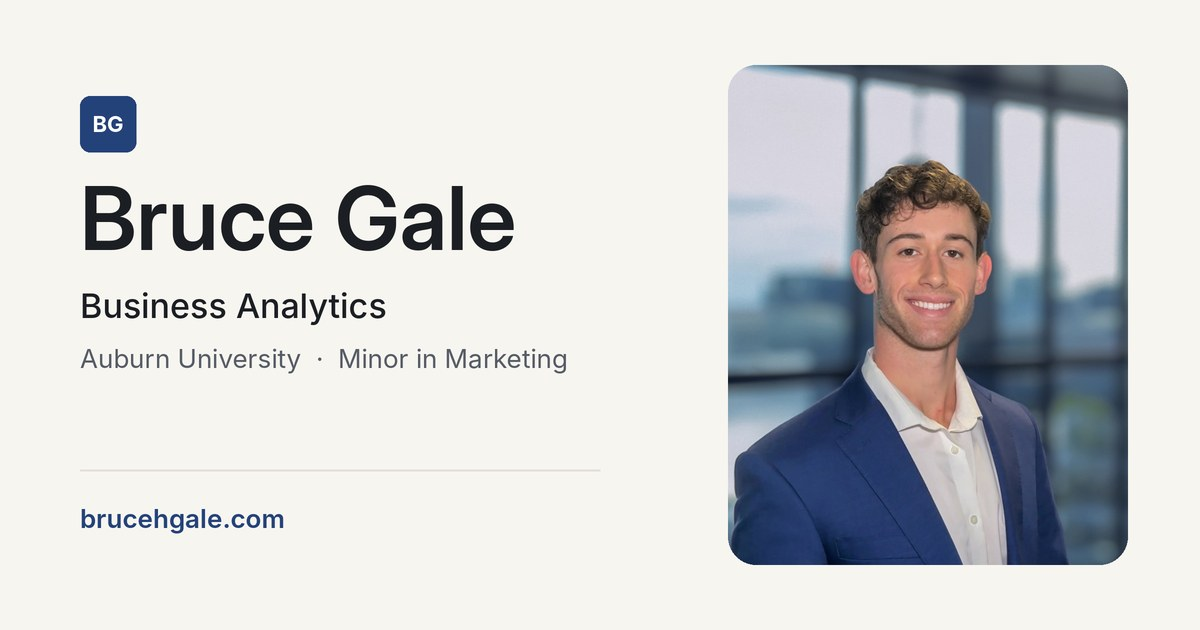
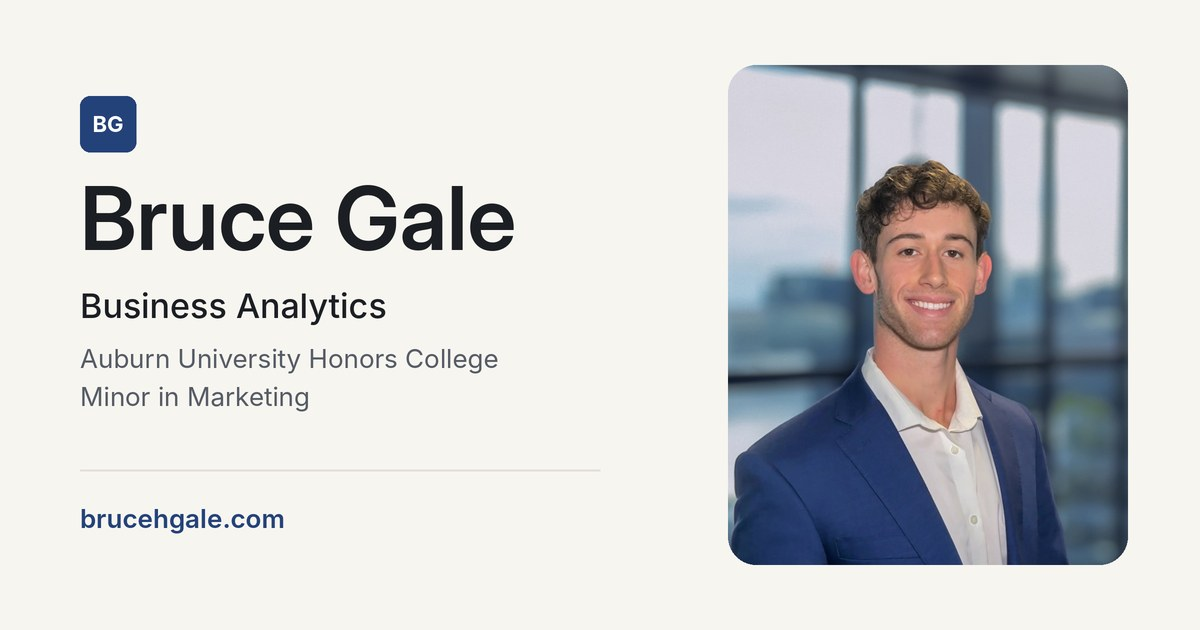
Add Honors College, AuburnSEO start date, and sample mockup caption
- Profile: Auburn University Honors College in the intro, education
  panels, About page, meta description, and regenerated share card
- AuburnSEO: started May 2026 (experience entry and case study)
- AuburnSEO case study: the phone mockup is labeled a sample design,
  not a client
- Catalog: S010 with Bruce's answers; open questions updated

Claude-Session: https://claude.ai/code/session_01TRBgudHw6x9vaQfCRF24eF

Changed region(s): [[0.2467, 0.5429, 0.4933, 0.6032], [0.0617, 0.6032, 0.2775, 0.6635]]

diff --git a/src/site.config.ts b/src/site.config.ts
@@ -22,6 +22,8 @@ export interface SiteConfig {
     program: string;
     school: string;
     minor: string;
+    /** e.g. "Honors College", once confirmed. */
+    honors?: string;
     /** Areas Bruce is targeting, as Bruce described them. */
     focusAreas: string[];
     /** e.g. "May 2027". Unconfirmed until Bruce provides it. */
@@ -45,13 +47,14 @@ export const site: SiteConfig = {
   name: 'Bruce Gale',
   url: 'https://brucehgale.com',
   description:
-    'Portfolio of Bruce Gale, a Business Analytics student at Auburn University with a minor in Marketing.',
+    'Portfolio of Bruce Gale, a Business Analytics student in the Auburn University Honors College with a minor in Marketing.',
   locale: 'en_US',
   placeholders: true,
   profile: {
     program: 'Business Analytics',
     school: 'Auburn University',
     minor: 'Marketing',
+    honors: 'Honors College',
     focusAreas: ['Business analytics', 'Data', 'Marketing', 'Business operations', 'Applied AI'],
     graduation: undefined,
     location: undefined,

diff --git a/scripts/make-social-card.py b/scripts/make-social-card.py
@@ -17,7 +17,8 @@ FONTS = os.environ.get("INTER_DIR", "/usr/share/fonts/opentype/inter")
 
 NAME = "Bruce Gale"
 LINE_1 = "Business Analytics"
-LINE_2 = "Auburn University  ·  Minor in Marketing"
+LINE_2 = "Auburn University Honors College"
+LINE_3 = "Minor in Marketing"
 DOMAIN = "brucehgale.com"
 
 BG = (247, 245, 240)
@@ -59,6 +60,7 @@ draw.text(((x + 28) * S, 124 * S), "BG", font=mono, fill=(255, 255, 255), anchor
 draw.text((x * S, 250 * S), NAME, font=font("InterDisplay-SemiBold.otf", 88), fill=TEXT, anchor="ls")
 draw.text((x * S, 318 * S), LINE_1, font=font("Inter-Medium.otf", 34), fill=TEXT, anchor="ls")
 draw.text((x * S, 368 * S), LINE_2, font=font("Inter-Regular.otf", 26), fill=MUTED, anchor="ls")
+draw.text((x * S, 406 * S), LINE_3, font=font("Inter-Regular.otf", 26), fill=MUTED, anchor="ls")
 
 # Divider and domain.
 draw.line((x * S, 470 * S, (x + 520) * S, 470 * S), fill=BORDER, width=2 * S)

diff --git a/catalog/index.md b/catalog/index.md
@@ -13,6 +13,7 @@ Every file, image set, or link Bruce has provided. Add a row the moment somethin
 | S007 | 2026-10-20 | Bruce's chat messages: contact details, current role, AuburnSEO facts and clicks stat | statements | [auburnseo](projects/auburnseo.md) | [octave](experience/octave.md), [auburnseo](experience/auburnseo.md) | [S007](sources/S007-bruce-statements-2026-10-20.md) | used on site |
 | S008 | 2026-10-20 | https://auburnseo.com/ (home, terms, privacy pages) | website | [auburnseo](projects/auburnseo.md) | [auburnseo](experience/auburnseo.md) | [S008](sources/S008-auburnseo-website.md) | used in draft and on site |
 | S009 | 2026-10-20 | Octave logo from https://www.octave.com | logo | none | [octave](experience/octave.md) | [S009](sources/S009-octave-logo.md) | used on site |
+| S010 | 2026-10-20 | Bruce's chat answers: Honors College, AuburnSEO start date, Northridge mockup | statements | [auburnseo](projects/auburnseo.md) | [auburnseo](experience/auburnseo.md) | [S010](sources/S010-bruce-answers-2026-10-20.md) | used on site |
 
 Status values: new, summarized, used in draft, used in published page, not used (say why), needs Bruce
 

diff --git a/content/projects/auburnseo/index.md b/content/projects/auburnseo/index.md
@@ -16,6 +16,8 @@ context:
   type: personal
   organization: AuburnSEO LLC
 
+dates:
+  start: '2026-05'
 status: ongoing
 
 role: Founder
@@ -62,8 +64,8 @@ cover:
 
 figures:
   - src: ./images/mobile-site-design.png
-    alt: A phone showing a mobile contractor website with a "Quality Work. Built to Last." headline, a Call Now button, and service icons
-    caption: The mobile-first contractor site design featured on the AuburnSEO homepage. Most homeowners find a contractor on their phone.
+    alt: A phone showing a sample mobile contractor website with a "Quality Work. Built to Last." headline, a Call Now button, and service icons
+    caption: A sample mobile-first contractor site design (not a client) from the AuburnSEO homepage, showing the kind of site I build.
 
 links:
   - kind: demo

diff --git a/catalog/sources/S010-bruce-answers-2026-10-20.md b/catalog/sources/S010-bruce-answers-2026-10-20.md
@@ -1,0 +1,18 @@
+# S010 Bruce's answers in chat (2026-10-20)
+
+- Received: 2026-10-20
+- Type: chat message from Bruce (direct confirmation)
+- Related projects: [auburnseo](../projects/auburnseo.md)
+- Related experience: [auburnseo](../experience/auburnseo.md)
+
+## Statements
+
+- Bruce is in the Auburn University Honors College.
+- AuburnSEO LLC was started in May 2026.
+- "Northridge Construction" on auburnseo.com is a mockup sample, not a real client.
+
+## Where used
+
+- `src/site.config.ts` (`profile.honors`): homepage intro, education panels, About page, meta description, share card
+- `content/experience/auburnseo.md` and `content/projects/auburnseo/index.md`: start date May 2026
+- AuburnSEO case study: the phone mockup is captioned as a sample design, not a client

diff --git a/catalog/sources/S008-auburnseo-website.md b/catalog/sources/S008-auburnseo-website.md
@@ -32,8 +32,8 @@ Marketing site for AuburnSEO LLC: "Websites that win you more jobs. Custom websi
 
 ## Open questions
 
-- When was AuburnSEO LLC founded? (Needed for dates.)
-- Is Northridge Construction a real client or a sample design?
+- Founded May 2026 (answered in S010).
+- Northridge Construction is a sample mockup, not a client (answered in S010).
 - How many clients so far? Any results besides clicks (calls, leads, rankings) with evidence?
 - Confirm the tools: GoHighLevel for sites and CRM, Stripe, Meta ads, anything else.
 

diff --git a/catalog/sources/S006-linkedin-experience.md b/catalog/sources/S006-linkedin-experience.md
@@ -50,6 +50,6 @@ Skills: Customer Service
 
 ## Notes
 
-- Headline says "Honors". Not on the site yet: confirm whether Bruce is in the Auburn Honors College.
+- Headline says "Honors". Bruce confirmed he is in the Auburn University Honors College (S010); now on the site.
 - Four Padsnap skills and two Lowe's skills are hidden behind "+4" and "+2" in the screenshot.
 - Bullets were lightly edited for the site (tense, plain wording). The third Padsnap bullet was rewritten from a skill statement into the action it describes.

diff --git a/catalog/projects/auburnseo.md b/catalog/projects/auburnseo.md
@@ -28,6 +28,5 @@ Business street address and SMS number on auburnseo.com are not used on the port
 
 ## Open questions for Bruce
 
-- Founding date, number of clients, and the analytics source for the clicks figure.
-- Is the Northridge Construction mockup a real client?
+- Number of clients and the analytics source for the clicks figure. (Founded May 2026; Northridge is a sample mockup, per S010.)
 - Any client results you can share with permission (calls, leads, rankings)?

diff --git a/catalog/experience/auburnseo.md b/catalog/experience/auburnseo.md
@@ -4,4 +4,4 @@ See the public entry in `content/experience/auburnseo.md`. Sources: S007, S008.
 
 ## Open questions
 
-- Founding date? Number of clients? Source for the clicks figure?
+- Number of clients? Source for the clicks figure? (Founded May 2026, per S010.)

diff --git a/content/experience/auburnseo.md b/content/experience/auburnseo.md
@@ -3,6 +3,7 @@ organization: AuburnSEO LLC
 role: Founder
 type: founder
 location: Huntsville, AL
+start: '2026-05'
 current: true
 logo: ./logos/auburnseo.png
 url: https://auburnseo.com
